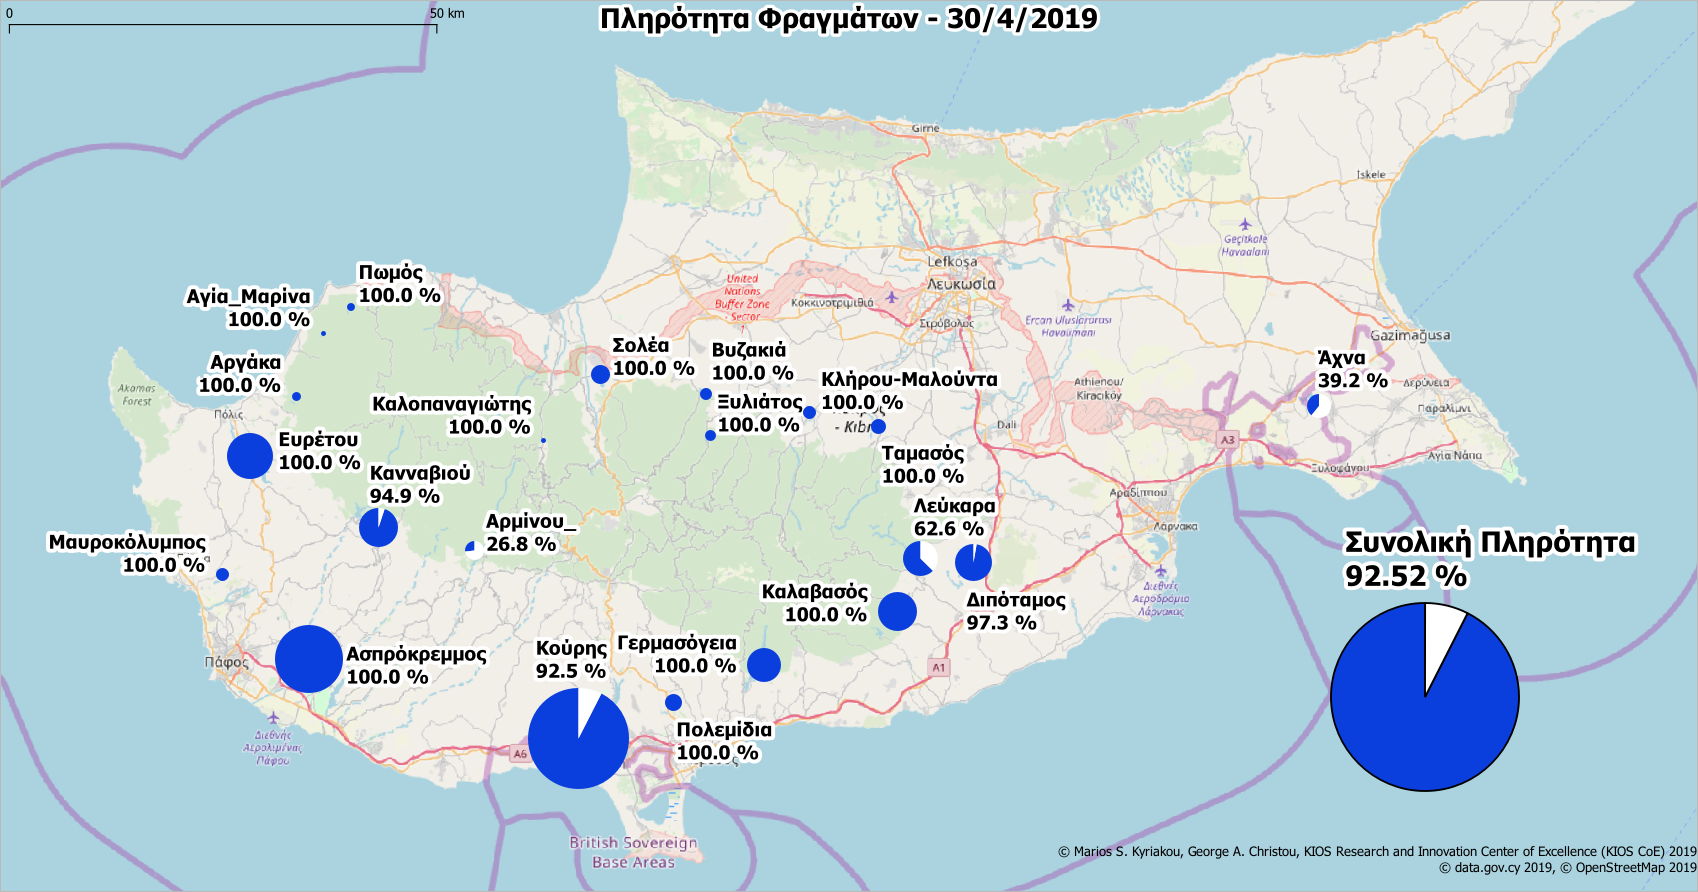
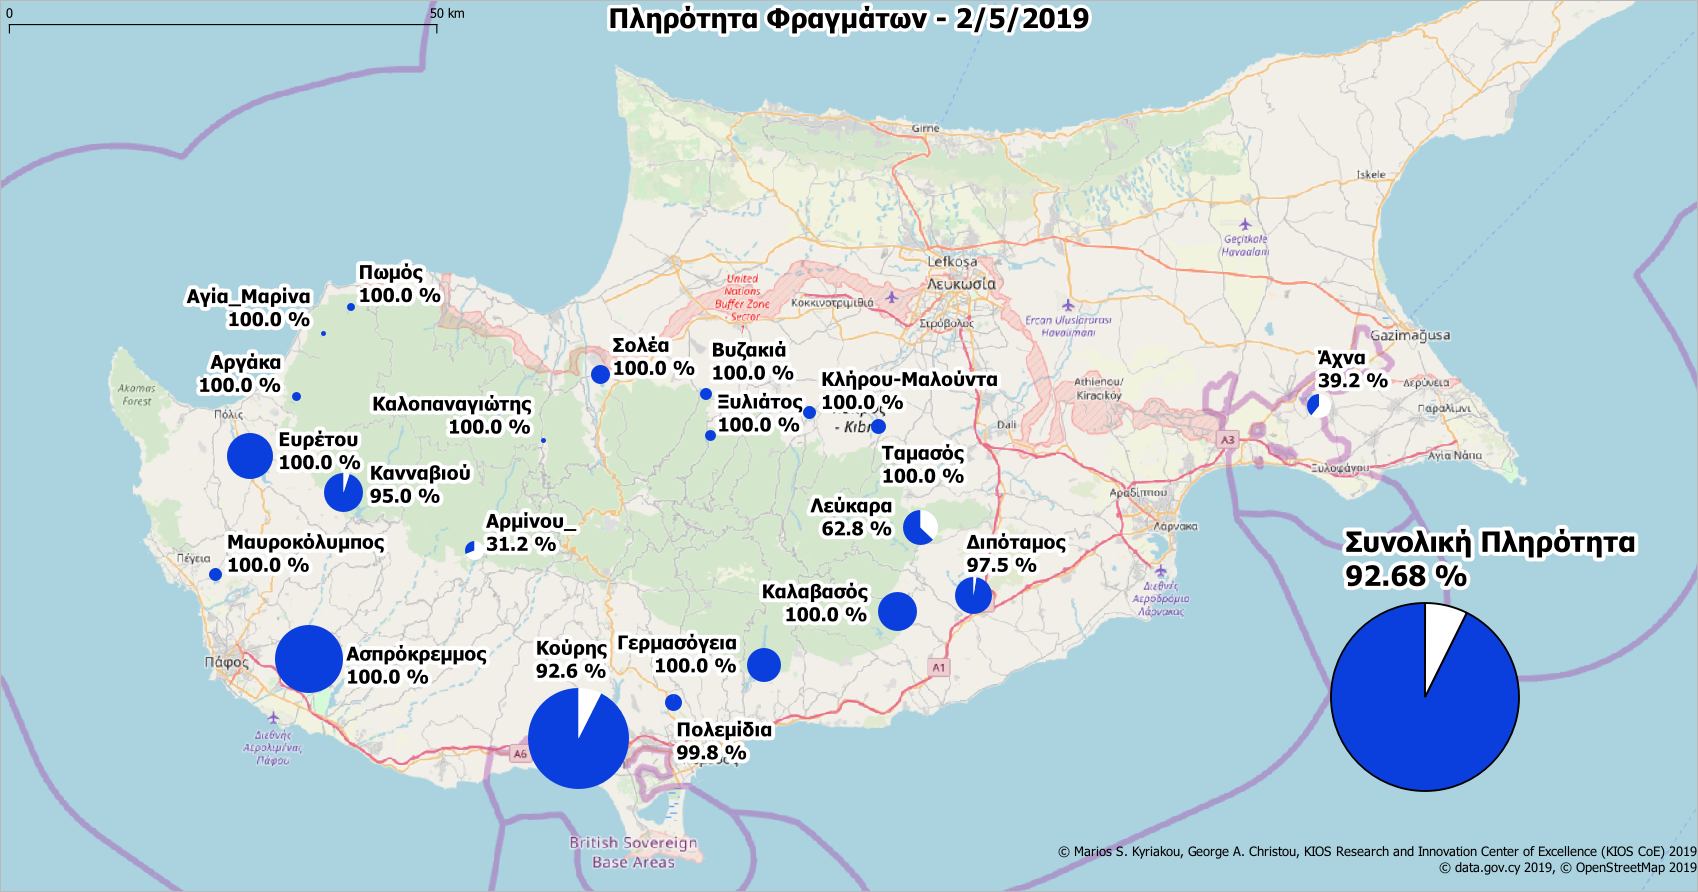
update

diff --git a/dams.html b/dams.html
@@ -11,7 +11,7 @@
          1px  1px 7px WHITE;
     }
     }
-    </style><p><b>Ημερομηνία ανανέωσης δεδομένων: 30/4/2019<p><font color="#0000FF">Η συνολική πληρότητα στα φράγματα είναι 92.52%</font>.<p>Υπάρχουν συνολικά <font color="#0000FF">15</font> φράγματα με πληρότητα <font color="#0000FF">100%</font>.<p>Υπάρχουν <font color="#0000FF">19</font> φράγματα με πληρότητα πάνω από <font color="#0000FF">50%</font>.</b><p><b>Υπάρχουν δεδομένα για 21 φράγματα. Συνολικά υπάρχουν 108 φράγματα. <b><p><p><p>* Ε.Κ.Μ. - Εκατομμύρια Kυβικά  Mέτρα.<table width="444">
+    </style><p><b>Ημερομηνία ανανέωσης δεδομένων: 2/5/2019<p><font color="#0000FF">Η συνολική πληρότητα στα φράγματα είναι 92.68%</font>.<p>Υπάρχουν συνολικά <font color="#0000FF">14</font> φράγματα με πληρότητα <font color="#0000FF">100%</font>.<p>Υπάρχουν <font color="#0000FF">19</font> φράγματα με πληρότητα πάνω από <font color="#0000FF">50%</font>.</b><p><b>Υπάρχουν δεδομένα για 21 φράγματα. Συνολικά υπάρχουν 108 φράγματα. <b><p><p><p>* Ε.Κ.Μ. - Εκατομμύρια Kυβικά  Mέτρα.<table width="444">
     <tbody>
     <tr>
     <th width="2"><b></b></th>
@@ -19,7 +19,7 @@
     <th width="60"><b>Χωρητικότητα (Ε.Κ.Μ.)</b></th>
     <th width="60"><b>Σημερινή (Ε.Κ.Μ.)</b></th>
     <th width="60"><b> Σημερινή Πληρότητα (%)</b></th>
-    </tr><tr><td bgcolor=#1A9641 class=border-white>1</td><td bgcolor=#1A9641 class=border-white>Κούρης</td><td bgcolor=#1A9641 class=border-white>115.0</td><td bgcolor=#1A9641 class=border-white>106.33</td><td bgcolor=#1A9641 class=border-white>92.5</td></tr><tr><tr><td bgcolor=#1A9641 class=border-white>2</td><td bgcolor=#1A9641 class=border-white>Ασπρόκρεμμος</td><td bgcolor=#1A9641 class=border-white>52.375</td><td bgcolor=#1A9641 class=border-white>52.375</td><td bgcolor=#1A9641 class=border-white>100.0</td></tr><tr><tr><td bgcolor=#1A9641 class=border-white>3</td><td bgcolor=#1A9641 class=border-white>Ευρέτου</td><td bgcolor=#1A9641 class=border-white>24.0</td><td bgcolor=#1A9641 class=border-white>24.0</td><td bgcolor=#1A9641 class=border-white>100.0</td></tr><tr><tr><td bgcolor=#1A9641 class=border-white>4</td><td bgcolor=#1A9641 class=border-white>Κανναβιού</td><td bgcolor=#1A9641 class=border-white>17.168</td><td bgcolor=#1A9641 class=border-white>16.288</td><td bgcolor=#1A9641 class=border-white>94.9</td></tr><tr><tr><td bgcolor=#1A9641 class=border-white>5</td><td bgcolor=#1A9641 class=border-white>Καλαβασός</td><td bgcolor=#1A9641 class=border-white>17.1</td><td bgcolor=#1A9641 class=border-white>17.1</td><td bgcolor=#1A9641 class=border-white>100.0</td></tr><tr><tr><td bgcolor=#1A9641 class=border-white>6</td><td bgcolor=#1A9641 class=border-white>Διπόταμος</td><td bgcolor=#1A9641 class=border-white>15.5</td><td bgcolor=#1A9641 class=border-white>15.08</td><td bgcolor=#1A9641 class=border-white>97.3</td></tr><tr><tr><td bgcolor=#A6D96A class=border-white>7</td><td bgcolor=#A6D96A class=border-white>Λεύκαρα</td><td bgcolor=#A6D96A class=border-white>13.85</td><td bgcolor=#A6D96A class=border-white>8.664</td><td bgcolor=#A6D96A class=border-white>62.6</td></tr><tr><tr><td bgcolor=#1A9641 class=border-white>8</td><td bgcolor=#1A9641 class=border-white>Γερμασόγεια</td><td bgcolor=#1A9641 class=border-white>13.5</td><td bgcolor=#1A9641 class=border-white>13.5</td><td bgcolor=#1A9641 class=border-white>100.0</td></tr><tr><tr><td bgcolor=#FED690 class=border-white>9</td><td bgcolor=#FED690 class=border-white>Άχνα</td><td bgcolor=#FED690 class=border-white>6.8</td><td bgcolor=#FED690 class=border-white>2.667</td><td bgcolor=#FED690 class=border-white>39.2</td></tr><tr><tr><td bgcolor=#1A9641 class=border-white>10</td><td bgcolor=#1A9641 class=border-white>Σολέα</td><td bgcolor=#1A9641 class=border-white>4.454</td><td bgcolor=#1A9641 class=border-white>4.454</td><td bgcolor=#1A9641 class=border-white>100.0</td></tr><tr><tr><td bgcolor=#FDAE61 class=border-white>11</td><td bgcolor=#FDAE61 class=border-white>Αρμίνου_</td><td bgcolor=#FDAE61 class=border-white>4.3</td><td bgcolor=#FDAE61 class=border-white>1.154</td><td bgcolor=#FDAE61 class=border-white>26.8</td></tr><tr><tr><td bgcolor=#1A9641 class=border-white>12</td><td bgcolor=#1A9641 class=border-white>Πολεμίδια</td><td bgcolor=#1A9641 class=border-white>3.4</td><td bgcolor=#1A9641 class=border-white>3.4</td><td bgcolor=#1A9641 class=border-white>100.0</td></tr><tr><tr><td bgcolor=#1A9641 class=border-white>13</td><td bgcolor=#1A9641 class=border-white>Ταμασός</td><td bgcolor=#1A9641 class=border-white>2.8</td><td bgcolor=#1A9641 class=border-white>2.8</td><td bgcolor=#1A9641 class=border-white>100.0</td></tr><tr><tr><td bgcolor=#1A9641 class=border-white>14</td><td bgcolor=#1A9641 class=border-white>Μαυροκόλυμπος</td><td bgcolor=#1A9641 class=border-white>2.18</td><td bgcolor=#1A9641 class=border-white>2.18</td><td bgcolor=#1A9641 class=border-white>100.0</td></tr><tr><tr><td bgcolor=#1A9641 class=border-white>15</td><td bgcolor=#1A9641 class=border-white>Κλήρου-Μαλούντα</td><td bgcolor=#1A9641 class=border-white>2.0</td><td bgcolor=#1A9641 class=border-white>2.0</td><td bgcolor=#1A9641 class=border-white>100.0</td></tr><tr><tr><td bgcolor=#1A9641 class=border-white>16</td><td bgcolor=#1A9641 class=border-white>Βυζακιά</td><td bgcolor=#1A9641 class=border-white>1.69</td><td bgcolor=#1A9641 class=border-white>1.69</td><td bgcolor=#1A9641 class=border-white>100.0</td></tr><tr><tr><td bgcolor=#1A9641 class=border-white>17</td><td bgcolor=#1A9641 class=border-white>Ξυλιάτος</td><td bgcolor=#1A9641 class=border-white>1.43</td><td bgcolor=#1A9641 class=border-white>1.43</td><td bgcolor=#1A9641 class=border-white>100.0</td></tr><tr><tr><td bgcolor=#1A9641 class=border-white>18</td><td bgcolor=#1A9641 class=border-white>Αργάκα</td><td bgcolor=#1A9641 class=border-white>0.99</td><td bgcolor=#1A9641 class=border-white>0.99</td><td bgcolor=#1A9641 class=border-white>100.0</td></tr><tr><tr><td bgcolor=#1A9641 class=border-white>19</td><td bgcolor=#1A9641 class=border-white>Πωμός</td><td bgcolor=#1A9641 class=border-white>0.86</td><td bgcolor=#1A9641 class=border-white>0.86</td><td bgcolor=#1A9641 class=border-white>100.0</td></tr><tr><tr><td bgcolor=#1A9641 class=border-white>20</td><td bgcolor=#1A9641 class=border-white>Καλοπαναγιώτης</td><td bgcolor=#1A9641 class=border-white>0.363</td><td bgcolor=#1A9641 class=border-white>0.363</td><td bgcolor=#1A9641 class=border-white>100.0</td></tr><tr><tr><td bgcolor=#1A9641 class=border-white>21</td><td bgcolor=#1A9641 class=border-white>Αγία_Μαρίνα</td><td bgcolor=#1A9641 class=border-white>0.298</td><td bgcolor=#1A9641 class=border-white>0.298</td><td bgcolor=#1A9641 class=border-white>100.0</td></tr><tr>
+    </tr><tr><td bgcolor=#1A9641 class=border-white>1</td><td bgcolor=#1A9641 class=border-white>Κούρης</td><td bgcolor=#1A9641 class=border-white>115.0</td><td bgcolor=#1A9641 class=border-white>106.52</td><td bgcolor=#1A9641 class=border-white>92.6</td></tr><tr><tr><td bgcolor=#1A9641 class=border-white>2</td><td bgcolor=#1A9641 class=border-white>Ασπρόκρεμμος</td><td bgcolor=#1A9641 class=border-white>52.375</td><td bgcolor=#1A9641 class=border-white>52.375</td><td bgcolor=#1A9641 class=border-white>100.0</td></tr><tr><tr><td bgcolor=#1A9641 class=border-white>3</td><td bgcolor=#1A9641 class=border-white>Ευρέτου</td><td bgcolor=#1A9641 class=border-white>24.0</td><td bgcolor=#1A9641 class=border-white>24.0</td><td bgcolor=#1A9641 class=border-white>100.0</td></tr><tr><tr><td bgcolor=#1A9641 class=border-white>4</td><td bgcolor=#1A9641 class=border-white>Κανναβιού</td><td bgcolor=#1A9641 class=border-white>17.168</td><td bgcolor=#1A9641 class=border-white>16.316</td><td bgcolor=#1A9641 class=border-white>95.0</td></tr><tr><tr><td bgcolor=#1A9641 class=border-white>5</td><td bgcolor=#1A9641 class=border-white>Καλαβασός</td><td bgcolor=#1A9641 class=border-white>17.1</td><td bgcolor=#1A9641 class=border-white>17.1</td><td bgcolor=#1A9641 class=border-white>100.0</td></tr><tr><tr><td bgcolor=#1A9641 class=border-white>6</td><td bgcolor=#1A9641 class=border-white>Διπόταμος</td><td bgcolor=#1A9641 class=border-white>15.5</td><td bgcolor=#1A9641 class=border-white>15.11</td><td bgcolor=#1A9641 class=border-white>97.5</td></tr><tr><tr><td bgcolor=#A6D96A class=border-white>7</td><td bgcolor=#A6D96A class=border-white>Λεύκαρα</td><td bgcolor=#A6D96A class=border-white>13.85</td><td bgcolor=#A6D96A class=border-white>8.692</td><td bgcolor=#A6D96A class=border-white>62.8</td></tr><tr><tr><td bgcolor=#1A9641 class=border-white>8</td><td bgcolor=#1A9641 class=border-white>Γερμασόγεια</td><td bgcolor=#1A9641 class=border-white>13.5</td><td bgcolor=#1A9641 class=border-white>13.5</td><td bgcolor=#1A9641 class=border-white>100.0</td></tr><tr><tr><td bgcolor=#FED690 class=border-white>9</td><td bgcolor=#FED690 class=border-white>Άχνα</td><td bgcolor=#FED690 class=border-white>6.8</td><td bgcolor=#FED690 class=border-white>2.667</td><td bgcolor=#FED690 class=border-white>39.2</td></tr><tr><tr><td bgcolor=#1A9641 class=border-white>10</td><td bgcolor=#1A9641 class=border-white>Σολέα</td><td bgcolor=#1A9641 class=border-white>4.454</td><td bgcolor=#1A9641 class=border-white>4.454</td><td bgcolor=#1A9641 class=border-white>100.0</td></tr><tr><tr><td bgcolor=#FED690 class=border-white>11</td><td bgcolor=#FED690 class=border-white>Αρμίνου_</td><td bgcolor=#FED690 class=border-white>4.3</td><td bgcolor=#FED690 class=border-white>1.343</td><td bgcolor=#FED690 class=border-white>31.2</td></tr><tr><tr><td bgcolor=#1A9641 class=border-white>12</td><td bgcolor=#1A9641 class=border-white>Πολεμίδια</td><td bgcolor=#1A9641 class=border-white>3.4</td><td bgcolor=#1A9641 class=border-white>3.392</td><td bgcolor=#1A9641 class=border-white>99.8</td></tr><tr><tr><td bgcolor=#1A9641 class=border-white>13</td><td bgcolor=#1A9641 class=border-white>Ταμασός</td><td bgcolor=#1A9641 class=border-white>2.8</td><td bgcolor=#1A9641 class=border-white>2.8</td><td bgcolor=#1A9641 class=border-white>100.0</td></tr><tr><tr><td bgcolor=#1A9641 class=border-white>14</td><td bgcolor=#1A9641 class=border-white>Μαυροκόλυμπος</td><td bgcolor=#1A9641 class=border-white>2.18</td><td bgcolor=#1A9641 class=border-white>2.18</td><td bgcolor=#1A9641 class=border-white>100.0</td></tr><tr><tr><td bgcolor=#1A9641 class=border-white>15</td><td bgcolor=#1A9641 class=border-white>Κλήρου-Μαλούντα</td><td bgcolor=#1A9641 class=border-white>2.0</td><td bgcolor=#1A9641 class=border-white>2.0</td><td bgcolor=#1A9641 class=border-white>100.0</td></tr><tr><tr><td bgcolor=#1A9641 class=border-white>16</td><td bgcolor=#1A9641 class=border-white>Βυζακιά</td><td bgcolor=#1A9641 class=border-white>1.69</td><td bgcolor=#1A9641 class=border-white>1.69</td><td bgcolor=#1A9641 class=border-white>100.0</td></tr><tr><tr><td bgcolor=#1A9641 class=border-white>17</td><td bgcolor=#1A9641 class=border-white>Ξυλιάτος</td><td bgcolor=#1A9641 class=border-white>1.43</td><td bgcolor=#1A9641 class=border-white>1.43</td><td bgcolor=#1A9641 class=border-white>100.0</td></tr><tr><tr><td bgcolor=#1A9641 class=border-white>18</td><td bgcolor=#1A9641 class=border-white>Αργάκα</td><td bgcolor=#1A9641 class=border-white>0.99</td><td bgcolor=#1A9641 class=border-white>0.99</td><td bgcolor=#1A9641 class=border-white>100.0</td></tr><tr><tr><td bgcolor=#1A9641 class=border-white>19</td><td bgcolor=#1A9641 class=border-white>Πωμός</td><td bgcolor=#1A9641 class=border-white>0.86</td><td bgcolor=#1A9641 class=border-white>0.86</td><td bgcolor=#1A9641 class=border-white>100.0</td></tr><tr><tr><td bgcolor=#1A9641 class=border-white>20</td><td bgcolor=#1A9641 class=border-white>Καλοπαναγιώτης</td><td bgcolor=#1A9641 class=border-white>0.363</td><td bgcolor=#1A9641 class=border-white>0.363</td><td bgcolor=#1A9641 class=border-white>100.0</td></tr><tr><tr><td bgcolor=#1A9641 class=border-white>21</td><td bgcolor=#1A9641 class=border-white>Αγία_Μαρίνα</td><td bgcolor=#1A9641 class=border-white>0.298</td><td bgcolor=#1A9641 class=border-white>0.298</td><td bgcolor=#1A9641 class=border-white>100.0</td></tr><tr>
     </tr>
     <tr>
     <td></td>
